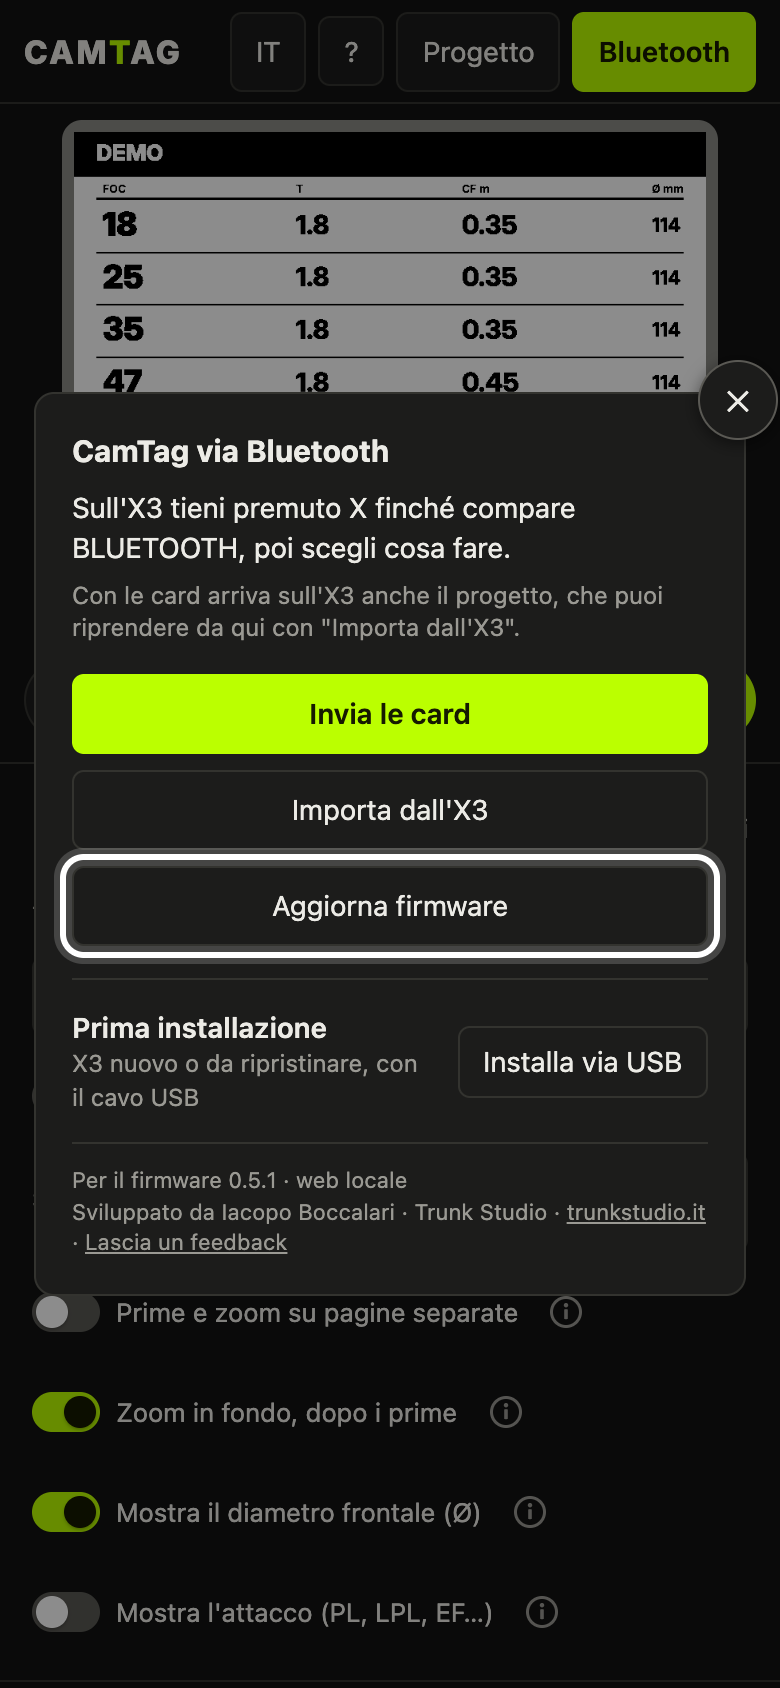
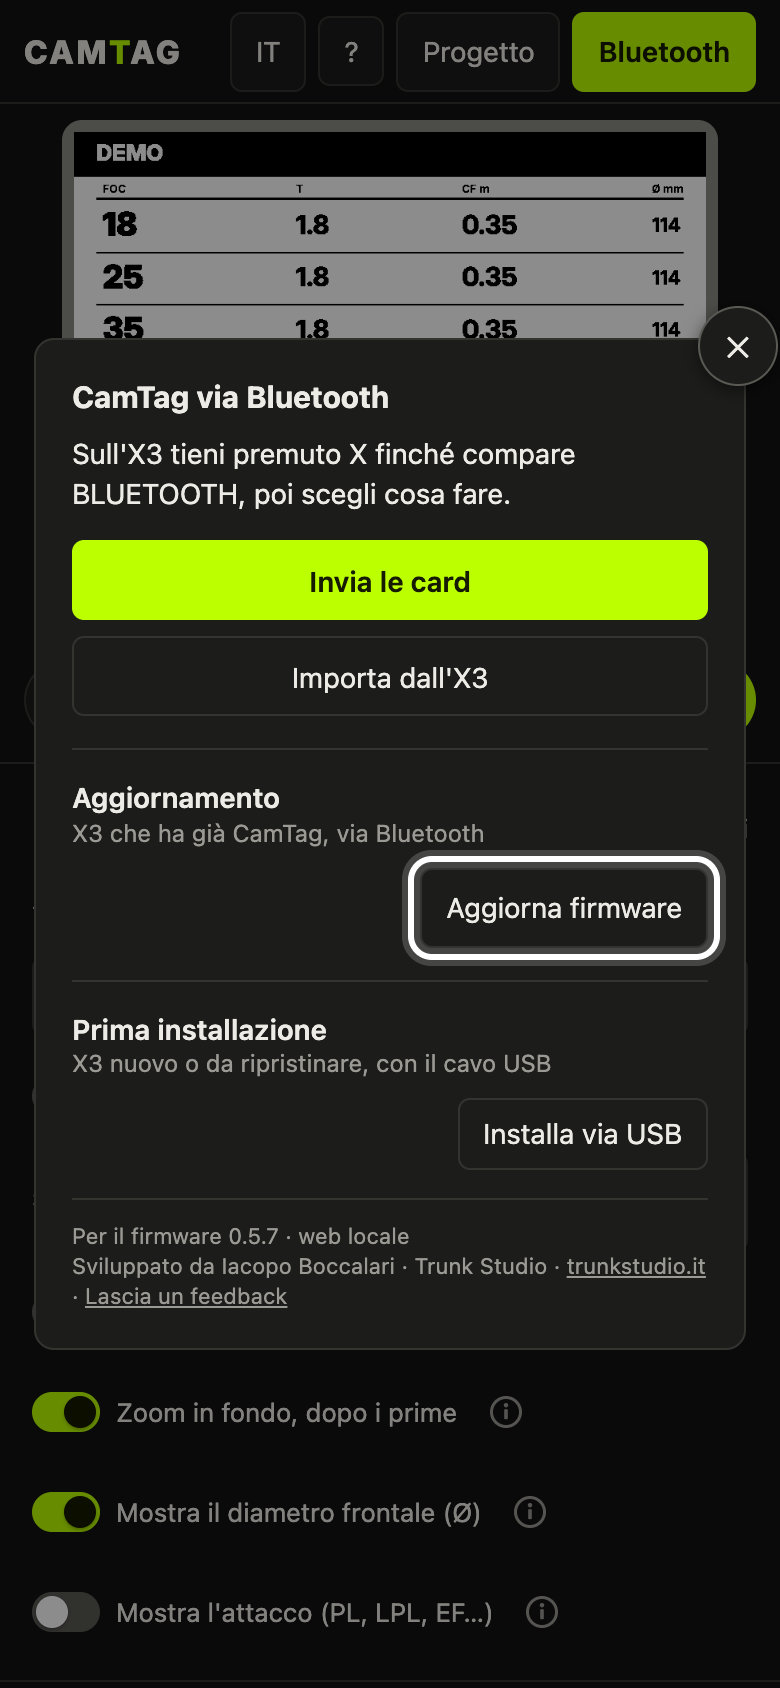
Finestra Bluetooth: importa e invia in alto, aggiornamento in un blocco a parte
- In alto restano le azioni di tutti i giorni, "Importa dall'X3" e "Invia le
  card". Sotto, in due blocchi uguali: "Aggiornamento" (via Bluetooth, per
  l'X3 che ha già CamTag) e "Prima installazione" (USB).
- In modalità sviluppatore "Firmware da file…" sceglie un .bin dal computer,
  al posto del Maiusc su "Aggiorna firmware".
- Sul telefono lo stato di un trasferimento prende il posto del nome nel
  pulsante Bluetooth, che resta largo com'era: "Bluetooth 56%" usciva dalla
  barra.
- Schermate da telefono dei due manuali rifatte con la finestra nuova.

diff --git a/companion/index.html b/companion/index.html
@@ -303,11 +303,13 @@
   #bleDlg .acts button, #askDlg .acts button { white-space: nowrap; }
   #askDlg { width: min(380px, calc(100vw - 32px)); }
   #askMsg { margin: 0; }
-  #bleDlg .usb { display: flex; align-items: center; justify-content: space-between; gap: 12px; margin-top: 16px; padding-top: 14px; border-top: 1px solid var(--line); }
-  #bleDlg .usb p { margin: 0; }
+  /* Sotto le azioni di tutti i giorni (importa, invia), in blocchi a parte: aggiornamento e prima installazione. */
+  #bleDlg .usb { display: flex; flex-wrap: wrap; align-items: center; justify-content: flex-end; gap: 8px 12px; margin-top: 16px; padding-top: 14px; border-top: 1px solid var(--line); }
+  #bleDlg .usb[hidden] { display: none; }
+  #bleDlg .usb p { margin: 0 auto 0 0; }
   #bleDlg .usb b { display: block; font-weight: 600; }
   #bleDlg .usb span { display: block; font-size: 12px; color: var(--muted); }
-  #bleDlg .usb .btn { flex: none; }
+  #bleDlg .usb .btn, #bleDlg .usb button { flex: none; white-space: nowrap; }
   #bleDlg .credits { margin: 14px 0 0; padding-top: 10px; border-top: 1px solid var(--line); font-size: 11px; color: var(--muted); }
   #bleDlg .credits a { color: inherit; }
   /* Feedback: discreto, in fondo all'editor. */
@@ -461,14 +463,18 @@
   <p id="bleCopyRow" hidden><button id="bleCopy" class="small" title="Copia l'errore con le versioni e il browser, da incollare in una segnalazione">Copia il messaggio</button></p>
   <p class="hint" id="bleFw" hidden></p>
   <div class="acts">
-    <button id="bleFwBtn" title="Installa sull'X3 il firmware di questo configuratore web">Aggiorna firmware</button>
-    <input type="file" id="bleFwFile" accept=".bin" hidden>
     <button id="bleBatt" class="dev-only" title="Scarica il registro dei consumi che l'X3 tiene sulla microSD">Registro batteria</button>
     <button id="bleGet" title="Riprende il progetto salvato sull'X3 insieme alle card">Importa dall'X3</button>
     <button id="bleStart" class="primary">Invia le card</button>
     <button id="bleCancel" hidden>Annulla</button>
     <button id="bleNo" hidden>Annulla</button>
     <button id="bleYes" class="primary" hidden></button>
+  </div>
+  <div class="usb" id="bleFwRow">
+    <p><b>Aggiornamento</b><span>X3 che ha già CamTag, via Bluetooth</span></p>
+    <input type="file" id="bleFwFile" accept=".bin" hidden>
+    <button id="bleFwBtn" title="Installa sull'X3 il firmware di questo configuratore web">Aggiorna firmware</button>
+    <button id="bleFwPick" class="dev-only" title="Scegli dal computer un file .bin da installare sull'X3 al posto del firmware pubblicato">Firmware da file…</button>
   </div>
   <div class="usb">
     <p><b>Prima installazione</b><span>X3 nuovo o da ripristinare, con il cavo USB</span></p>
@@ -2237,7 +2243,6 @@ view = ui.view === 'port' ? 'port' : 'land';
 // Mostra le funzioni per chi prova il firmware (registro batteria, .bin da file).
 { const d = new URLSearchParams(location.search).get('dev'); if (d !== null) { ui.dev = d !== '0'; saveUi(); const u = new URL(location.href); u.searchParams.delete('dev'); history.replaceState(null, '', u); } }
 document.body.classList.toggle('devmode', !!ui.dev);
-if (ui.dev) $('#bleFwBtn').title = t("Installa sull'X3 il firmware di questo configuratore web. Con Maiusc premuto scegli un file .bin");
 document.querySelectorAll('#devPrev [data-dp]').forEach(i => {
   i.checked = !!devPrev()[i.dataset.dp];
   i.onchange = () => { ui.devPrev = { ...ui.devPrev, [i.dataset.dp]: i.checked }; saveUi(); drawPreview(); };
@@ -3358,7 +3363,7 @@ const BLE = {
   oldVersions: [2, 3],  // ancora accettati: la 2 senza KEEP (si manda tutto), la 3 senza FIRMWARE
   firmwareFrom: 4,      // da qui l'X3 si aggiorna via Bluetooth (FIRMWARE), anche con un protocollo diverso
   // Il firmware compilato da GitHub Actions con questo configuratore web (stesso commit,
-  // .github/workflows/pages.yml). In locale non c'è: si sceglie un .bin con Maiusc.
+  // .github/workflows/pages.yml). In locale non c'è: si sceglie un .bin con "Firmware da file…".
   firmwareUrl: 'firmware/camtag.bin',
   confirmMs: 65000,     // FIRMWARE: tempo per la conferma sui tasti dell'X3 (lui rifiuta dopo 60 s)
   // Byte in volo non ancora confermati (il dispositivo ne tiene 16 KB). Non alzarla:
@@ -3414,8 +3419,15 @@ let bleRun = null;  // trasferimento in corso: { cancel() }
 // chiusa (`bleUnseen`) il pulsante lo segna, e riaprendo si legge com'è andata.
 let bleBusy = false, bleProgress = null, bleFailed = false, bleUnseen = false;
 function bleBtnLabel() {
-  $('#bleBtn').textContent = 'Bluetooth' + (bleBusy ? (bleProgress === null ? ' …' : ` ${Math.min(99, Math.round(bleProgress * 100))}%`)
-    : bleUnseen ? (bleFailed ? ' ⚠' : ' ✓') : '');
+  const b = $('#bleBtn');
+  const state = bleBusy ? (bleProgress === null ? '…' : `${Math.min(99, Math.round(bleProgress * 100))}%`)
+    : bleUnseen ? (bleFailed ? '⚠' : '✓') : '';
+  // Sul telefono la barra è piena: lo stato prende il posto del nome, e il pulsante
+  // resta largo com'era, così non spinge fuori gli altri.
+  const narrow = matchMedia('(max-width: 699px)').matches;
+  if (!state || !narrow) b.style.minWidth = '';
+  else if (!b.style.minWidth) b.style.minWidth = `${b.offsetWidth}px`;
+  b.textContent = !state ? 'Bluetooth' : narrow ? state : `Bluetooth ${state}`;
 }
 
 // Confronto di versioni "1.2.3": negativo se a è più vecchia di b.
@@ -3804,7 +3816,7 @@ async function bleGet() {
 }
 
 // Aggiornamento del firmware (FIRMWARE, docs/bluetooth.md). Il .bin è quello
-// pubblicato con questo configuratore web, o un file scelto (Maiusc + clic).
+// pubblicato con questo configuratore web, o un file scelto ("Firmware da file…", in modalità sviluppatore).
 // Prima di mandarlo controlla che sia un'immagine ESP32-C3 con il marchio
 // CAMTAG_FW=<versione> (device/src/Version.h); l'X3 chiede conferma sui tasti.
 function firmwareVersionOf(bytes) {
@@ -3821,7 +3833,7 @@ async function bleFirmware(file) {
     else {
       bleUi(t('Scarico il firmware {}…', FW_VERSION), { busy: true, progress: 0 });
       const r = await fetch(BLE.firmwareUrl, { cache: 'no-cache' }).catch(() => null);
-      if (!r || !r.ok) throw new Error(t('Il firmware non è in questa copia del configuratore web: c\'è solo in quella pubblicata su GitHub Pages. Per un file .bin tieni premuto Maiusc mentre premi "Aggiorna firmware".'));
+      if (!r || !r.ok) throw new Error(t('Il firmware non è in questa copia del configuratore web: c\'è solo in quella pubblicata su GitHub Pages. Per un file .bin: modalità sviluppatore (?dev), poi "Firmware da file…".'));
       bytes = new Uint8Array(await r.arrayBuffer());
     }
     const version = firmwareVersionOf(bytes);
@@ -3912,12 +3924,13 @@ $('#bleBtn').onclick = () => {
 $('#bleStart').onclick = () => { bleSend(); };
 $('#bleGet').onclick = () => { bleGet(); };
 $('#bleBatt').onclick = () => { bleBattery(); };
-function bleActs(show) { for (const id of ['#bleStart', '#bleGet', '#bleBatt', '#bleFwBtn']) $(id).hidden = !show; }
-// In modalità sviluppatore, con Maiusc si sceglie un .bin. Lo si manda con il clic dopo:
+function bleActs(show) { for (const id of ['#bleStart', '#bleGet', '#bleBatt', '#bleFwRow']) $(id).hidden = !show; }
+// In modalità sviluppatore "Firmware da file…" sceglie un .bin. Lo si manda con il clic dopo:
 // il browser chiede il dispositivo solo subito dopo un clic, e la scelta del file
 // può durare di più.
 let bleFwChosen = null;
-$('#bleFwBtn').onclick = e => { if (e.shiftKey && ui.dev) $('#bleFwFile').click(); else bleFirmware(bleFwChosen); };
+$('#bleFwBtn').onclick = () => { bleFirmware(bleFwChosen); };
+$('#bleFwPick').onclick = () => { $('#bleFwFile').click(); };
 $('#bleFwFile').onchange = async e => {
   const f = e.target.files[0];
   e.target.value = '';

diff --git a/companion/i18n.js b/companion/i18n.js
@@ -49,7 +49,10 @@ const I18N_EN = {
   "Scarica il registro dei consumi che l'X3 tiene sulla microSD": 'Downloads the power log the X3 keeps on the microSD',
   'Registro batteria': 'Battery log',
   'Aggiorna firmware': 'Update firmware',
-  "Installa sull'X3 il firmware di questo configuratore web. Con Maiusc premuto scegli un file .bin": 'Installs on the X3 the firmware of this web configurator. Hold Shift to choose a .bin file',
+  "Scegli dal computer un file .bin da installare sull'X3 al posto del firmware pubblicato": 'Choose a .bin file from this computer to install on the X3 instead of the published firmware',
+  'Firmware da file…': 'Firmware from file…',
+  'Aggiornamento': 'Update',
+  'X3 che ha già CamTag, via Bluetooth': 'X3 already running CamTag, over Bluetooth',
   "Installa sull'X3 il firmware di questo configuratore web": 'Installs on the X3 the firmware of this web configurator',
   'Modalità sviluppatore': 'Developer mode',
   'esci': 'exit',
@@ -468,7 +471,7 @@ const I18N_EN = {
   "Il firmware dell'X3 ({}) non parla con questo configuratore web, fatto per la {}: premi \"Aggiorna firmware\".": 'The X3 firmware ({}) does not talk to this web configurator, made for {}: press "Update firmware".',
   "Il firmware dell'X3 ({}) non parla con questo configuratore web, fatto per la {}: aggiornalo una volta con il cavo USB («Installa via USB»).": 'The X3 firmware ({}) does not talk to this web configurator, made for {}: update it once with the USB cable ("Install via USB").',
   'Scarico il firmware {}…': 'Downloading firmware {}…',
-  'Il firmware non è in questa copia del configuratore web: c\'è solo in quella pubblicata su GitHub Pages. Per un file .bin tieni premuto Maiusc mentre premi "Aggiorna firmware".': 'The firmware is not in this copy of the web configurator: it is only in the one published on GitHub Pages. For a .bin file hold Shift while pressing "Update firmware".',
+  'Il firmware non è in questa copia del configuratore web: c\'è solo in quella pubblicata su GitHub Pages. Per un file .bin: modalità sviluppatore (?dev), poi "Firmware da file…".': 'The firmware is not in this copy of the web configurator: it is only in the one published on GitHub Pages. For a .bin file: developer mode (?dev), then "Firmware from file…".',
   'Il file non è un firmware CamTag per l\'X3.': 'The file is not a CamTag firmware for the X3.',
   "Il firmware dell'X3 ({}) non si aggiorna via Bluetooth: la prima volta serve il cavo USB («Installa via USB»).": 'The X3 firmware ({}) cannot be updated via Bluetooth: the first time needs the USB cable ("Install via USB").',
   "L'X3 ha già il firmware {}. Installare comunque la {}?": 'The X3 already has firmware {}. Install {} anyway?',

diff --git a/CLAUDE.md b/CLAUDE.md
@@ -65,8 +65,8 @@ costruttori di lenti e filtri nei dati vanno bene.
   nel localStorage `camtag.ui.v1`: sono del browser, non entrano in `project.json`.
   **Modalità sviluppatore**: `?dev` accende `ui.dev` (resta nel localStorage,
   `?dev=0` la spegne) e la classe `devmode` sul body mostra gli elementi
-  `.dev-only`; oggi "Registro batteria", il `.bin` scelto con Maiusc su
-  "Aggiorna firmware" Maiusc su "Scarica .bmp" (l'anteprima con quello che
+  `.dev-only`; oggi "Registro batteria", "Firmware da file…" (un `.bin`
+  scelto dal computer, che poi "Aggiorna firmware" installa), Maiusc su "Scarica .bmp" (l'anteprima con quello che
   disegna l'X3, es. `off-overlay.p.bmp`) e le spunte sotto l'anteprima (`ui.devPrev`:
   capovolto, batteria scarica, in carica, USB, tasti bloccati; `drawStatusPreview`). Le funzioni che servono solo a chi prova il firmware
   vanno lì. Lo zip delle card si scarica dal menu Progetto. Il testo delle note
@@ -79,10 +79,14 @@ costruttori di lenti e filtri nei dati vanno bene.
   Niente `confirm()`/`alert()` del browser: alcuni browser per iPhone con Web
   Bluetooth non rendono la risposta. Si usano `ask(msg, sì)` e `say(msg)`
   (finestra `#askDlg`), e `bleAsk` dentro la finestra Bluetooth.
+  La finestra Bluetooth ha in alto le azioni di tutti i giorni (importa, invia) e sotto,
+  in blocchi a parte (`.usb`), "Aggiornamento" (`#bleFwRow`, via Bluetooth) e "Prima
+  installazione" (USB): gli aggiornamenti non sono cosa di tutti i giorni.
   Chiudere la finestra Bluetooth (✕ o Esc) non ferma un trasferimento, lo ferma solo
-  "Annulla": il pulsante Bluetooth mostra la percentuale, poi ✓ o ⚠ se finisce a
-  finestra chiusa, e la riapre com'è (`bleBtnLabel`, `bleUnseen`); una domanda o la
-  conferma sui tasti dell'X3 la riaprono da sole (`bleShow`).
+  "Annulla": il pulsante Bluetooth mostra la percentuale (sul telefono al posto del
+  nome, perché la barra è piena), poi ✓ o ⚠ se finisce a finestra chiusa, e la riapre
+  com'è (`bleBtnLabel`, `bleUnseen`); una domanda o la conferma sui tasti dell'X3 la
+  riaprono da sole (`bleShow`).
   BLE Link non apre nuove finestre: i link `target="_blank"` passano da un click
   globale che, se `window.open` non dà una finestra e la pagina resta in primo piano
   (Bluefy apre la scheda ma dà null), apre il link nella stessa scheda.
